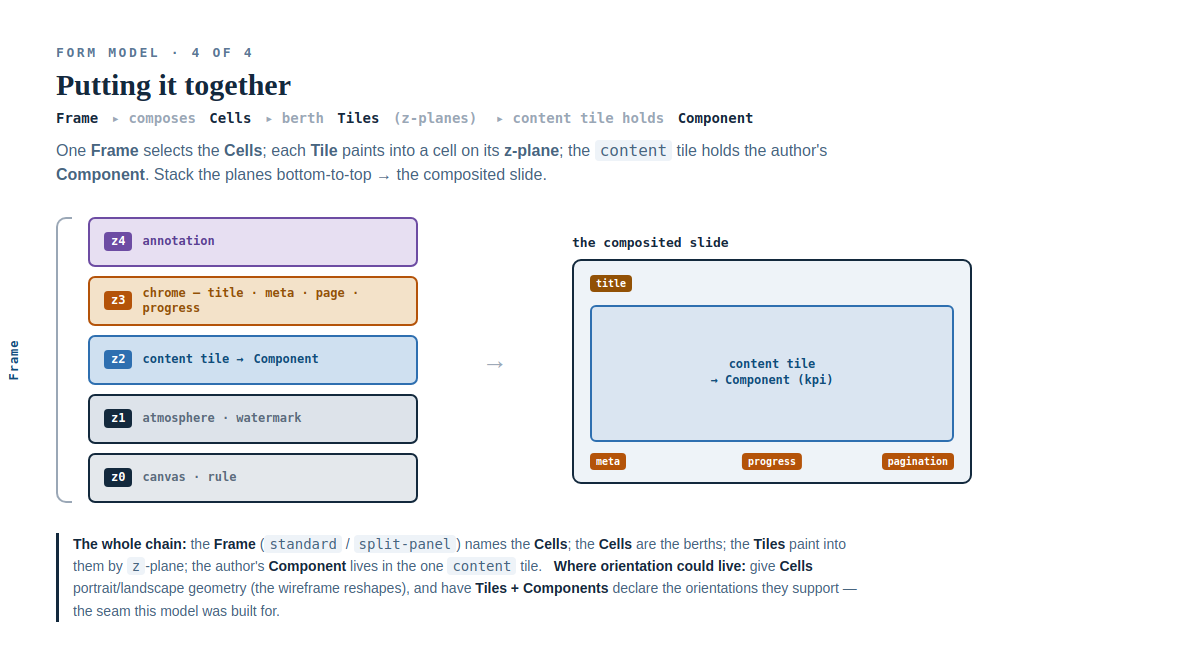
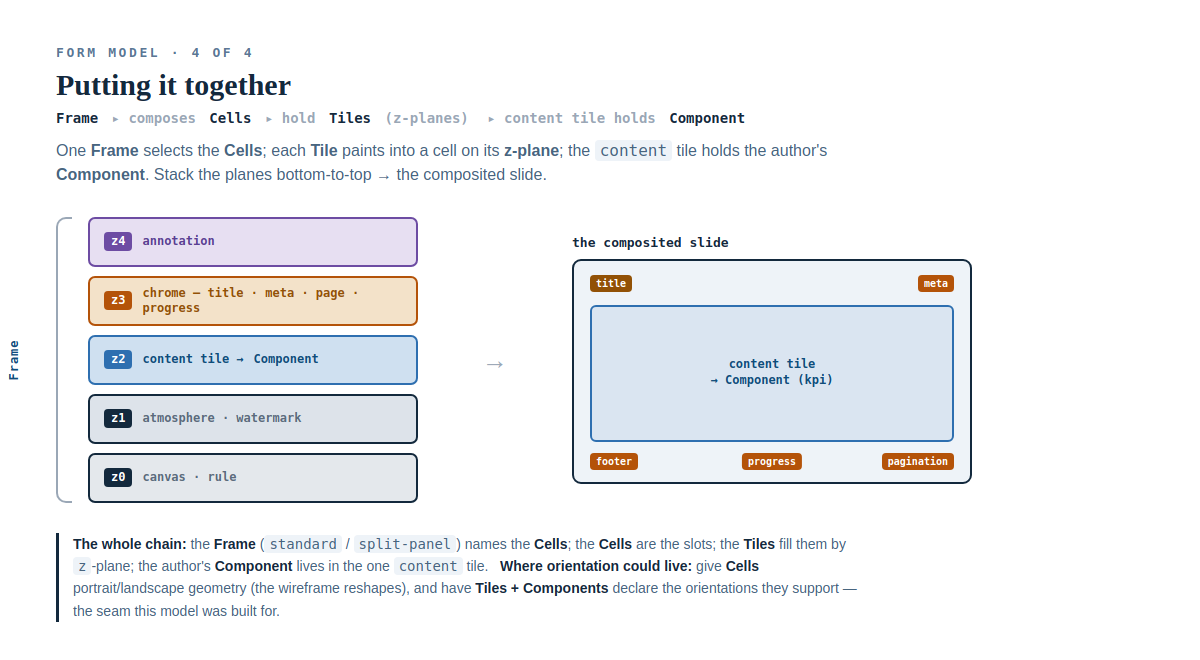
docs(spec): fix Form-model accuracy issues from independent audit
A read-only docs-auditor pass against the live manifests/transforms found the
core teaching accurate (meta→masthead-bay, z-planes, render chain all verified)
but flagged five issues, now fixed:

- B1 — diagram 4 (composited slide) showed `meta` in the footer, contradicting
  the masthead-bay placement and the other three diagrams. Moved to the top
  (masthead); the footer row now shows footer/progress/pagination. Re-rendered.
- B2 — the retired word "berth" had crept back as live vocabulary (diagram 4
  chain + note, spec §4 alt text). Replaced with "hold"/"slots"/"fill"; kept the
  single explanatory "(the old word was berth)" mention.
- M1 — orientation ADR pointed figures at docs/public/form-model/*.png; they
  live at docs/src/assets/form-model/*.png. Corrected.
- M2 — "footer Cells" over-aggregated; named them the footer-row Cells
  (footer-left · progress-centre · pagination-right). Spec page + diagram 2.
- M3 — design/forms.md §11 claimed the manifest "drives the Tile injectors",
  which the shipped light-coupling rung doesn't do (and the new spec page
  contradicted). Softened §11 to: the manifest is the validated contract; the
  render still places via transforms+CSS (only id+exemptFromChrome read at
  render). Now consistent with the coupling ADR + the new page.

Docs build clean (72 pages); lint + build:check green.

diff --git a/docs/diagrams/form-model/mock4-together.html b/docs/diagrams/form-model/mock4-together.html
@@ -33,7 +33,7 @@ code{font-family:ui-monospace,monospace;background:#eef3f8;padding:1px 5px;borde
 </style></head><body>
 <div class="eyebrow">Form model · 4 of 4</div>
 <h1>Putting it together</h1>
-<div class="chain">Frame <span>▸ composes</span> Cells <span>▸ berth</span> Tiles <span>(z-planes)</span> <span>▸ content tile holds</span> Component</div>
+<div class="chain">Frame <span>▸ composes</span> Cells <span>▸ hold</span> Tiles <span>(z-planes)</span> <span>▸ content tile holds</span> Component</div>
 <div class="sub">One <b>Frame</b> selects the <b>Cells</b>; each <b>Tile</b> paints into a cell on its <b>z-plane</b>; the <code>content</code> tile holds the author's <b>Component</b>. Stack the planes bottom-to-top → the composited slide.</div>
 
 <div class="wrap">
@@ -54,13 +54,14 @@ code{font-family:ui-monospace,monospace;background:#eef3f8;padding:1px 5px;borde
     <div class="rlabel">the composited slide</div>
     <div class="slide">
       <div class="t" style="top:14px;left:16px;background:#925106">title</div>
+      <div class="t" style="top:14px;right:16px">meta</div>
       <div class="ct">content tile<br>→ Component (kpi)</div>
-      <div class="t" style="bottom:12px;left:16px">meta</div>
+      <div class="t" style="bottom:12px;left:16px">footer</div>
       <div class="t" style="bottom:12px;left:50%;transform:translateX(-50%)">progress</div>
       <div class="t" style="bottom:12px;right:16px">pagination</div>
     </div>
   </div>
 </div>
 
-<div class="note"><b>The whole chain:</b> the <b>Frame</b> (<code>standard</code> / <code>split-panel</code>) names the <b>Cells</b>; the <b>Cells</b> are the berths; the <b>Tiles</b> paint into them by <code>z</code>-plane; the author's <b>Component</b> lives in the one <code>content</code> tile. &nbsp; <b>Where orientation could live:</b> give <b>Cells</b> portrait/landscape geometry (the wireframe reshapes), and have <b>Tiles + Components</b> declare the orientations they support — the seam this model was built for.</div>
+<div class="note"><b>The whole chain:</b> the <b>Frame</b> (<code>standard</code> / <code>split-panel</code>) names the <b>Cells</b>; the <b>Cells</b> are the slots; the <b>Tiles</b> fill them by <code>z</code>-plane; the author's <b>Component</b> lives in the one <code>content</code> tile. &nbsp; <b>Where orientation could live:</b> give <b>Cells</b> portrait/landscape geometry (the wireframe reshapes), and have <b>Tiles + Components</b> declare the orientations they support — the seam this model was built for.</div>
 </body></html>

diff --git a/docs/diagrams/form-model/mock2-cell-tile.html b/docs/diagrams/form-model/mock2-cell-tile.html
@@ -56,5 +56,5 @@ code{font-family:ui-monospace,monospace;background:#eef3f8;padding:1px 5px;borde
   </div>
 </div>
 
-<div class="note"><b>Read it as:</b> Cells are the typed slots (<code>masthead-lede</code>, <code>masthead-bay</code>, <code>stage</code>, <code>footer-left</code>, <code>progress-centre</code>, <code>pagination-right</code>…); each Tile fills one Cell and stacks by <code>z</code> (flattens to <code>z-index</code> in 2D; literal depth in a spatial renderer). The author's <b>title</b>+<b>kicker</b> lift into the masthead-lede, <b>meta</b> docks in the masthead-bay, the <span style="color:#2e6fb0;font-weight:600">content</span> Tile (z2) fills the <code>stage</code>, and the footer Cells take <b>footer</b>/<b>progress</b>/<b>pagination</b>.</div>
+<div class="note"><b>Read it as:</b> Cells are the typed slots (<code>masthead-lede</code>, <code>masthead-bay</code>, <code>stage</code>, <code>footer-left</code>, <code>progress-centre</code>, <code>pagination-right</code>…); each Tile fills one Cell and stacks by <code>z</code> (flattens to <code>z-index</code> in 2D; literal depth in a spatial renderer). The author's <b>title</b>+<b>kicker</b> lift into the masthead-lede, <b>meta</b> docks in the masthead-bay, the <span style="color:#2e6fb0;font-weight:600">content</span> Tile (z2) fills the <code>stage</code>, and the footer-row Cells take <b>footer</b>/<b>progress</b>/<b>pagination</b>.</div>
 </body></html>

diff --git a/design/forms.md b/design/forms.md
@@ -464,9 +464,14 @@ manifest + CSS, with the registry adapter in `lib/transformers/masthead-lift.js`
 mirroring how a component splits kernel↔adapter. The masthead + footer Cells are
 fully self-contained; still to follow: the Frame chrome.
 
-The manifest is **load-bearing, not descriptive**: it drives the `--frame-*` grid
-and the Tile injectors and the `accepts`/`fits` validation, so adding a Frame or a
-Tile is *a folder, not edits to three kernels*. As of the "light" coupling
+The manifest is the **contract**, not loose description — the *intent* is that it
+drives the `--frame-*` grid, the Tile injectors, and the `accepts`/`fits`
+validation, so adding a Frame or a Tile is *a folder, not edits to three kernels*.
+At the **"light" coupling rung shipped today** that contract is *validated*, not yet
+*executed*: the render still places via hand-written transforms + CSS keyed on
+classes (only `id` + `exemptFromChrome` are read at render time), and a build gate
+keeps the manifest and that CSS in step — see `/spec/form-model/` for the render
+chain, and the coupling ADR for the rungs. As of the "light" coupling
 (`2026-06-16-form-manifest-medium-independent-contract.md` §4), a build gate enforces
 manifest↔CSS consistency so the contract can't silently drift: geometry/gap
 **token references resolve** to real CSS custom properties (§4.2), every Cell's

diff --git a/docs/src/content/docs/spec/form-model.md b/docs/src/content/docs/spec/form-model.md
@@ -38,7 +38,7 @@ A **Cell** is a typed slot — a sized, positioned region of the slide (the wire
 
 ![Cells are the typed slots; Tiles fill them on z-planes — title+kicker in the masthead-lede, meta in the masthead-bay, content in the stage, footer/progress/pagination below.](../../../assets/form-model/2-cell-tile.png)
 
-The author's **title** and **kicker** (eyebrow) lift into the `masthead-lede`; the **meta** tile docks in the `masthead-bay`; the **content** Tile fills the `stage`; the footer Cells take the **footer**, **progress**, and **pagination** tiles.
+The author's **title** and **kicker** (eyebrow) lift into the `masthead-lede`; the **meta** tile docks in the `masthead-bay`; the **content** Tile fills the `stage`; the footer-row Cells (`footer-left`, `progress-centre`, `pagination-right`) take the **footer**, **progress**, and **pagination** tiles.
 
 ---
 
@@ -56,7 +56,7 @@ This is the seam that matters for responsiveness: **orientation/reflow is a Comp
 
 One Frame selects the Cells; each Tile paints into a Cell on its z-plane; the `content` Tile holds the Component. Stack the planes bottom-to-top → the composited slide.
 
-![Frame composes Cells; Cells berth Tiles on z-planes; the content Tile holds the Component.](../../../assets/form-model/4-together.png)
+![Frame composes Cells; Cells hold Tiles on z-planes; the content Tile holds the Component.](../../../assets/form-model/4-together.png)
 
 ---
 

diff --git a/engineering/decisions/2026-06-16-orientation-in-the-form-model.md b/engineering/decisions/2026-06-16-orientation-in-the-form-model.md
@@ -12,7 +12,7 @@ Component), and how is "this layout supports portrait" *declared* vs *made true*
 
 A four-figure walkthrough of the model these terms refer to is published on the
 docs site: `/spec/form-model/` (source: `docs/src/content/docs/spec/form-model.md`;
-figures `docs/public/form-model/*.png`). The canonical model is `design/forms.md`.
+figures `docs/src/assets/form-model/*.png`). The canonical model is `design/forms.md`.
 
 ## Context
 